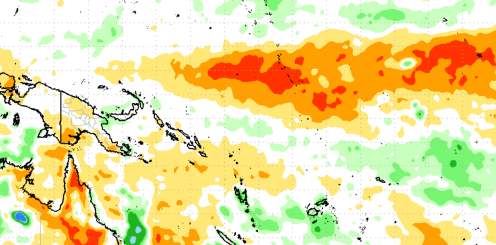
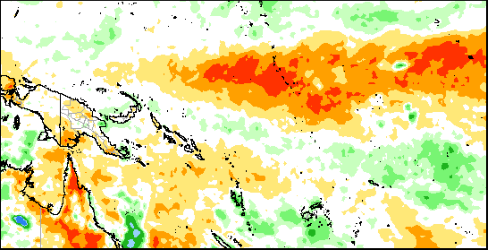
automated commit by cron job on Wed Dec  4 19:35:55 UTC 2024

diff --git a/stations/.ipynb_checkpoints/pacisl_leaflet-checkpoint.html b/stations/.ipynb_checkpoints/pacisl_leaflet-checkpoint.html
@@ -229,7 +229,7 @@
             'Monitor Tools': {
                 'CMORPH Time Series Points': 'https://www.cpc.ncep.noaa.gov/products/international/zz_CP_Islands/zz_CMORPH_BLD_2nd/CMORPH_BLD_Islands_180day.shtml',
                 'CMORPH 90 Day Precip Anomaly': 'https://ftp.cpc.ncep.noaa.gov/International/CP_Islands/CMORPH_ADJ_00Z/cmorph_90day_cpi_anom.png',// for avg in mm/day swap to this link https://www.cpc.ncep.noaa.gov/products/international/drought/precip/img/Anom_90day_PacificIslands.png',
-                'CMORPH 90 Day Precip Percent': 'https://www.cpc.ncep.noaa.gov/products/international/drought/precip/img/Perc_90day_PacificIslands.png',
+                'CMORPH 90 Day Precip Percent': 'https://ftp.cpc.ncep.noaa.gov/International/CP_Islands/CMORPH_ADJ_00Z/cmorph_90day_cpi_pnorm.png',// for avg 90 day percent 'https://www.cpc.ncep.noaa.gov/products/international/drought/precip/img/Perc_90day_PacificIslands.png',
                 'CMORPH 3-month SPI': 'https://www.cpc.ncep.noaa.gov/products/international/dm/daily/Pacific_CMORPH_SPI_3mo.png',
                 'CMORPH 3-month SPEI': 'https://www.cpc.ncep.noaa.gov/products/international/dm/daily/Pacific_CMORPH_SPEI_3mo.png',
                 'CMORPH 30 Day Precip Anomaly': 'https://www.cpc.ncep.noaa.gov/products/international/drought/precip/img/Anom_30day_PacificIslands.png',

diff --git a/stations/pacisl_leaflet.html b/stations/pacisl_leaflet.html
@@ -229,7 +229,7 @@
             'Monitor Tools': {
                 'CMORPH Time Series Points': 'https://www.cpc.ncep.noaa.gov/products/international/zz_CP_Islands/zz_CMORPH_BLD_2nd/CMORPH_BLD_Islands_180day.shtml',
                 'CMORPH 90 Day Precip Anomaly': 'https://ftp.cpc.ncep.noaa.gov/International/CP_Islands/CMORPH_ADJ_00Z/cmorph_90day_cpi_anom.png',// for avg in mm/day swap to this link https://www.cpc.ncep.noaa.gov/products/international/drought/precip/img/Anom_90day_PacificIslands.png',
-                'CMORPH 90 Day Precip Percent': 'https://www.cpc.ncep.noaa.gov/products/international/drought/precip/img/Perc_90day_PacificIslands.png',
+                'CMORPH 90 Day Precip Percent': 'https://ftp.cpc.ncep.noaa.gov/International/CP_Islands/CMORPH_ADJ_00Z/cmorph_90day_cpi_pnorm.png',// for avg 90 day percent 'https://www.cpc.ncep.noaa.gov/products/international/drought/precip/img/Perc_90day_PacificIslands.png',
                 'CMORPH 3-month SPI': 'https://www.cpc.ncep.noaa.gov/products/international/dm/daily/Pacific_CMORPH_SPI_3mo.png',
                 'CMORPH 3-month SPEI': 'https://www.cpc.ncep.noaa.gov/products/international/dm/daily/Pacific_CMORPH_SPEI_3mo.png',
                 'CMORPH 30 Day Precip Anomaly': 'https://www.cpc.ncep.noaa.gov/products/international/drought/precip/img/Anom_30day_PacificIslands.png',

diff --git a/stations/.ipynb_checkpoints/updated_images_for_leaflet-checkpoint.py b/stations/.ipynb_checkpoints/updated_images_for_leaflet-checkpoint.py
@@ -25,7 +25,9 @@ layerlinks = {
                 'OISST SST 7-Day Anomaly Difference': 'https://www.cpc.ncep.noaa.gov/products/international/oisst/oisst_7day_pac_diff.gif',
                 'CMORPH 90 Day Precip Anomaly': 'https://ftp.cpc.ncep.noaa.gov/International/CP_Islands/CMORPH_ADJ_00Z/cmorph_90day_cpi_anom.png',
                 'CMORPH 90 Day Precip Avg Anomaly': 'https://www.cpc.ncep.noaa.gov/products/international/drought/precip/img/Anom_90day_PacificIslands.png',
-                'CMORPH 90 Day Precip Percent': 'https://www.cpc.ncep.noaa.gov/products/international/drought/precip/img/Perc_90day_PacificIslands.png',
+                'CMORPH 90 Day Precip Percent': 
+ 'https://ftp.cpc.ncep.noaa.gov/International/CP_Islands/CMORPH_ADJ_00Z/cmorph_90day_cpi_pnorm.png',   
+                # #for percent in average per day use the following link: 'https://www.cpc.ncep.noaa.gov/products/international/drought/precip/img/Perc_90day_PacificIslands.png',
                 'CMORPH 3-month SPI': 'https://www.cpc.ncep.noaa.gov/products/international/dm/daily/Pacific_CMORPH_SPI_3mo.png',
                 'CMORPH 3-month SPEI': 'https://www.cpc.ncep.noaa.gov/products/international/dm/daily/Pacific_CMORPH_SPEI_3mo.png',
                 'CMORPH 30 Day Precip Anomaly': 'https://www.cpc.ncep.noaa.gov/products/international/drought/precip/img/Anom_30day_PacificIslands.png',
@@ -76,7 +78,7 @@ fcst_save = ['gefswk1ptotal', 'gefswk1panom', 'gefswk1poe50', 'gefswk1poe100', '
 legend_crop_monitors = [(150, 1420, 2350,1475), (150, 1420, 2350,1475), #oisst
                         (15, 342, 580, 375), #cmorph 90 anom
                         (90, 600, 920, 630), #cmorph 90 avg anom
-                        (90, 600, 920, 630), #cmorph 90
+                        (15, 342, 580, 375), #cmorph 90 percent #for avg% (90, 600, 920, 630)
                         (150, 650, 890, 695), (150, 650, 885, 683), #cmorph 3mo spi, spei
                         (90, 600, 920, 630), (90, 600, 920, 630), #cmorph 30
                         (150, 650, 890, 695), (150, 650, 885, 683), #cmorph 1mo spi, spei
@@ -98,7 +100,7 @@ legend_crop_fcsts = [(35, 360, 590, 400), (35, 360, 590, 400), (35, 360, 590, 40
 crop_monitors = [(148, 250, 2247, 1300), (148, 250, 2247, 1300),
                  (25, 40, 580, 320), #cmorph 90 anom       
                  (42, 76, 971, 535), #cmorph 90 avg anom
-                 (42, 76, 971, 535), #cmorph 90
+                 (25, 40, 580, 320), #cmorph 90 percent for avg% use (42, 76, 971, 535)
                         (56, 76, 1014, 568), (56, 76, 1004, 554), #cmorph 3mo spi, spei
                         (42, 76, 971, 535), (42, 76, 971, 535), #cmorph 30
                         (56, 76, 1014, 568), (56, 76, 1004, 554), #cmorph 1mo spi, spei
@@ -121,7 +123,7 @@ crop_fcsts = [(46, 63, 588, 339),  (46, 63, 588, 339), (46, 63, 588, 338), (46, 
 crop_monitor_header = [(148, 1, 1300, 120), (148, 1, 1700, 120),
                       (26, 0, 420, 37), #cmorph 90 anom 
                        (42, 1, 971, 73), #cmorph 90 avg anom 
-                       (42, 1, 971, 73), #cmorph 90
+                       (26, 0, 460, 37), #cmorph 90 %, for avg% use (42, 1, 971, 73)
                         (56, 1, 1014, 73), (56, 0, 1004,61), #cmorph 3mo spi, spei
                         (42, 1, 971, 73), (42, 1, 971, 73), #cmorph 30
                         (56, 1, 1014, 73), (56, 0, 1004, 61), #cmorph 1mo spi, spei

diff --git a/stations/updated_images_for_leaflet.py b/stations/updated_images_for_leaflet.py
@@ -25,7 +25,9 @@ layerlinks = {
                 'OISST SST 7-Day Anomaly Difference': 'https://www.cpc.ncep.noaa.gov/products/international/oisst/oisst_7day_pac_diff.gif',
                 'CMORPH 90 Day Precip Anomaly': 'https://ftp.cpc.ncep.noaa.gov/International/CP_Islands/CMORPH_ADJ_00Z/cmorph_90day_cpi_anom.png',
                 'CMORPH 90 Day Precip Avg Anomaly': 'https://www.cpc.ncep.noaa.gov/products/international/drought/precip/img/Anom_90day_PacificIslands.png',
-                'CMORPH 90 Day Precip Percent': 'https://www.cpc.ncep.noaa.gov/products/international/drought/precip/img/Perc_90day_PacificIslands.png',
+                'CMORPH 90 Day Precip Percent': 
+ 'https://ftp.cpc.ncep.noaa.gov/International/CP_Islands/CMORPH_ADJ_00Z/cmorph_90day_cpi_pnorm.png',   
+                # #for percent in average per day use the following link: 'https://www.cpc.ncep.noaa.gov/products/international/drought/precip/img/Perc_90day_PacificIslands.png',
                 'CMORPH 3-month SPI': 'https://www.cpc.ncep.noaa.gov/products/international/dm/daily/Pacific_CMORPH_SPI_3mo.png',
                 'CMORPH 3-month SPEI': 'https://www.cpc.ncep.noaa.gov/products/international/dm/daily/Pacific_CMORPH_SPEI_3mo.png',
                 'CMORPH 30 Day Precip Anomaly': 'https://www.cpc.ncep.noaa.gov/products/international/drought/precip/img/Anom_30day_PacificIslands.png',
@@ -76,7 +78,7 @@ fcst_save = ['gefswk1ptotal', 'gefswk1panom', 'gefswk1poe50', 'gefswk1poe100', '
 legend_crop_monitors = [(150, 1420, 2350,1475), (150, 1420, 2350,1475), #oisst
                         (15, 342, 580, 375), #cmorph 90 anom
                         (90, 600, 920, 630), #cmorph 90 avg anom
-                        (90, 600, 920, 630), #cmorph 90
+                        (15, 342, 580, 375), #cmorph 90 percent #for avg% (90, 600, 920, 630)
                         (150, 650, 890, 695), (150, 650, 885, 683), #cmorph 3mo spi, spei
                         (90, 600, 920, 630), (90, 600, 920, 630), #cmorph 30
                         (150, 650, 890, 695), (150, 650, 885, 683), #cmorph 1mo spi, spei
@@ -98,7 +100,7 @@ legend_crop_fcsts = [(35, 360, 590, 400), (35, 360, 590, 400), (35, 360, 590, 40
 crop_monitors = [(148, 250, 2247, 1300), (148, 250, 2247, 1300),
                  (25, 40, 580, 320), #cmorph 90 anom       
                  (42, 76, 971, 535), #cmorph 90 avg anom
-                 (42, 76, 971, 535), #cmorph 90
+                 (25, 40, 580, 320), #cmorph 90 percent for avg% use (42, 76, 971, 535)
                         (56, 76, 1014, 568), (56, 76, 1004, 554), #cmorph 3mo spi, spei
                         (42, 76, 971, 535), (42, 76, 971, 535), #cmorph 30
                         (56, 76, 1014, 568), (56, 76, 1004, 554), #cmorph 1mo spi, spei
@@ -121,7 +123,7 @@ crop_fcsts = [(46, 63, 588, 339),  (46, 63, 588, 339), (46, 63, 588, 338), (46, 
 crop_monitor_header = [(148, 1, 1300, 120), (148, 1, 1700, 120),
                       (26, 0, 420, 37), #cmorph 90 anom 
                        (42, 1, 971, 73), #cmorph 90 avg anom 
-                       (42, 1, 971, 73), #cmorph 90
+                       (26, 0, 460, 37), #cmorph 90 %, for avg% use (42, 1, 971, 73)
                         (56, 1, 1014, 73), (56, 0, 1004,61), #cmorph 3mo spi, spei
                         (42, 1, 971, 73), (42, 1, 971, 73), #cmorph 30
                         (56, 1, 1014, 73), (56, 0, 1004, 61), #cmorph 1mo spi, spei
